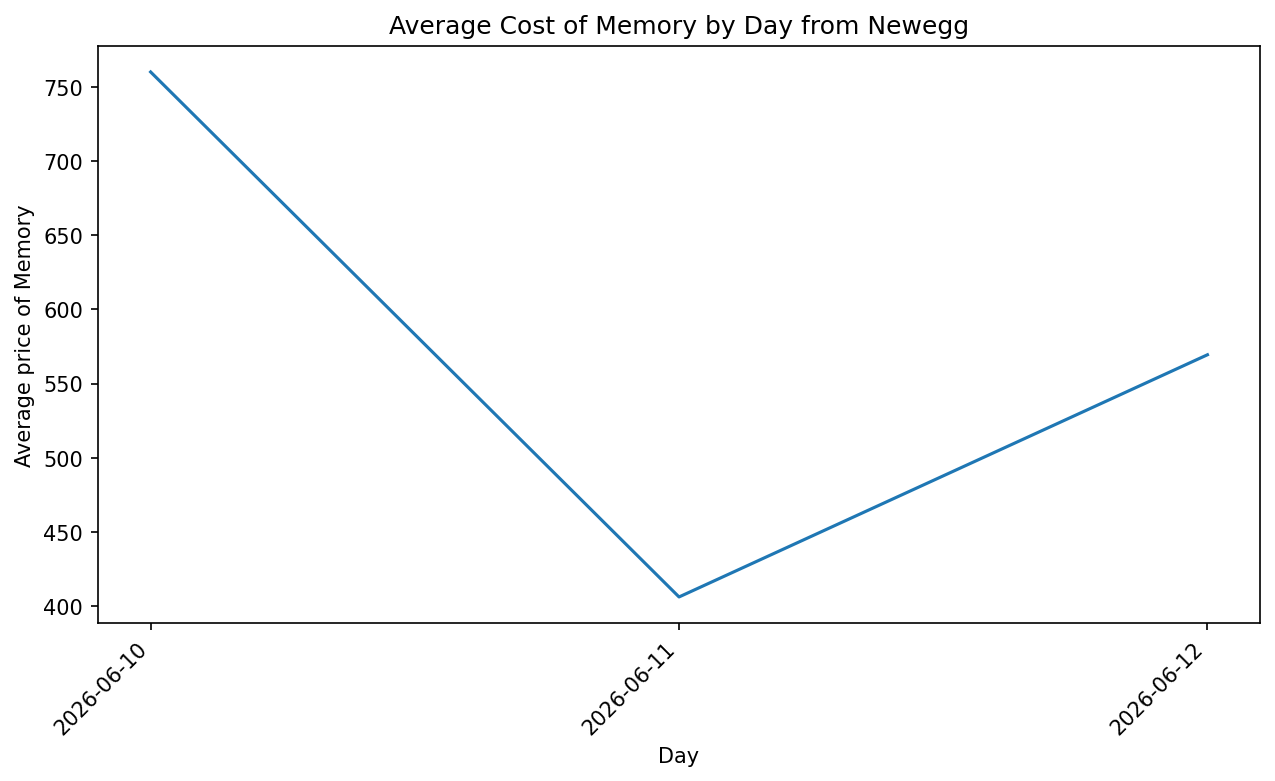
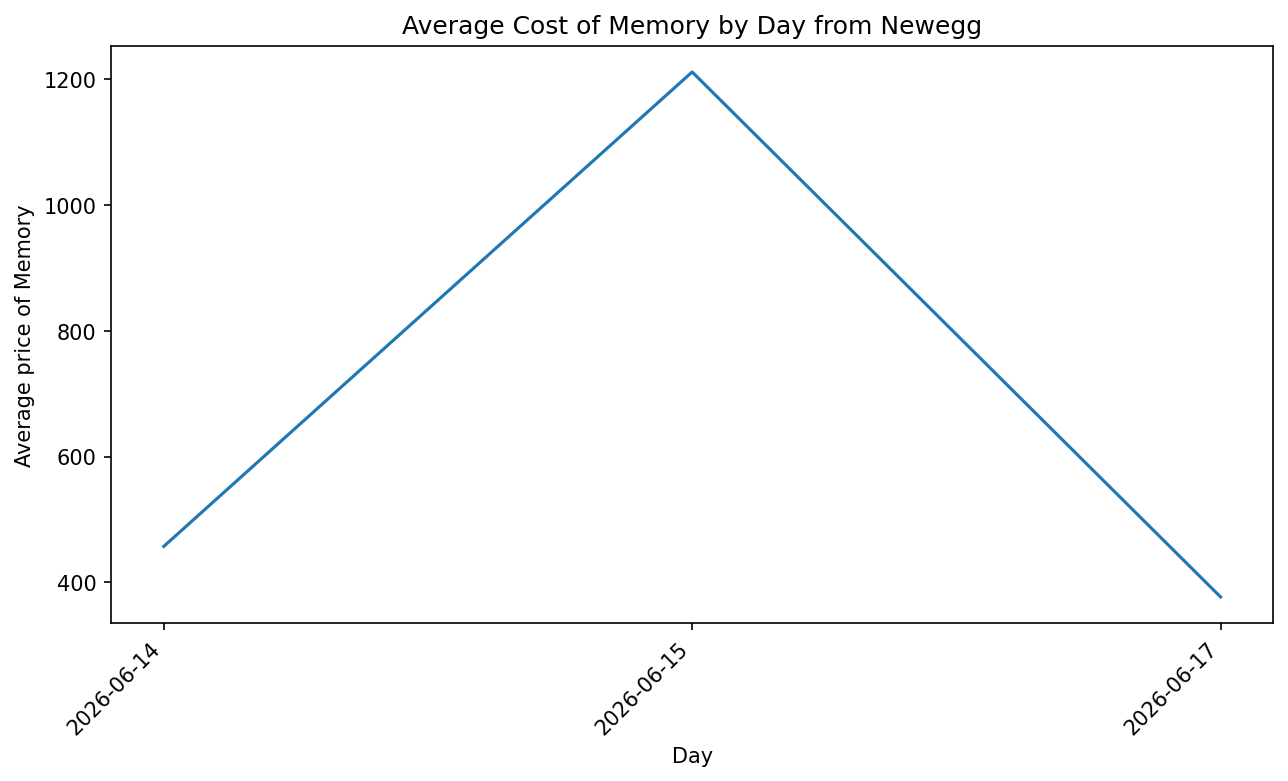
Added pyteste for _parse and conftest.py for test discovery

diff --git a/tests/test_scraper.py b/tests/test_scraper.py
@@ -1,0 +1,15 @@
+from scraper import _parse
+
+def test_parse_extracts_product_data():
+    sample_html = '''
+    <script>
+    var __initialState__={"Products":[{"IsCombo":false,"SponsoredMsg":null,"ProductNumber":"20-331-858","ItemCell":{"Description":{"ProductName":"Test RAM 16GB"},"Model":"TEST123","ItemManufactory":{"Manufactory":"TestBrand"},"FinalPrice":99.99,"Review":{"RatingOneDecimal":4.5,"HumanRating":100},"Instock":true}}]};
+    </script>
+    '''
+    
+    results = _parse(sample_html)
+    
+    assert len(results) == 1
+    assert results[0]['title'] == 'Test RAM 16GB'
+    assert results[0]['brand'] == 'TestBrand'
+    assert results[0]['price'] == 99.99

diff --git a/conftest.py b/conftest.py
@@ -1,0 +1,3 @@
+import sys
+import os
+sys.path.insert(0, os.path.dirname(__file__))